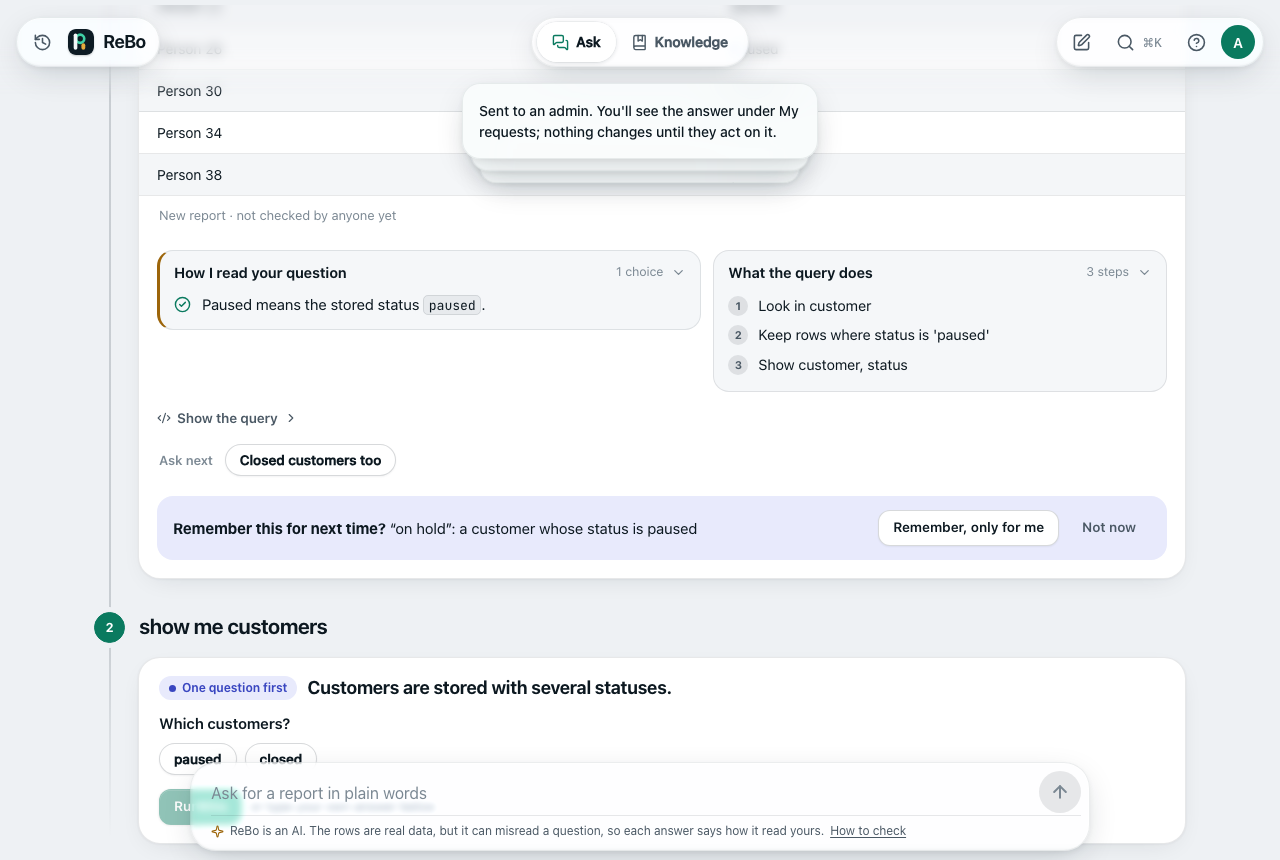
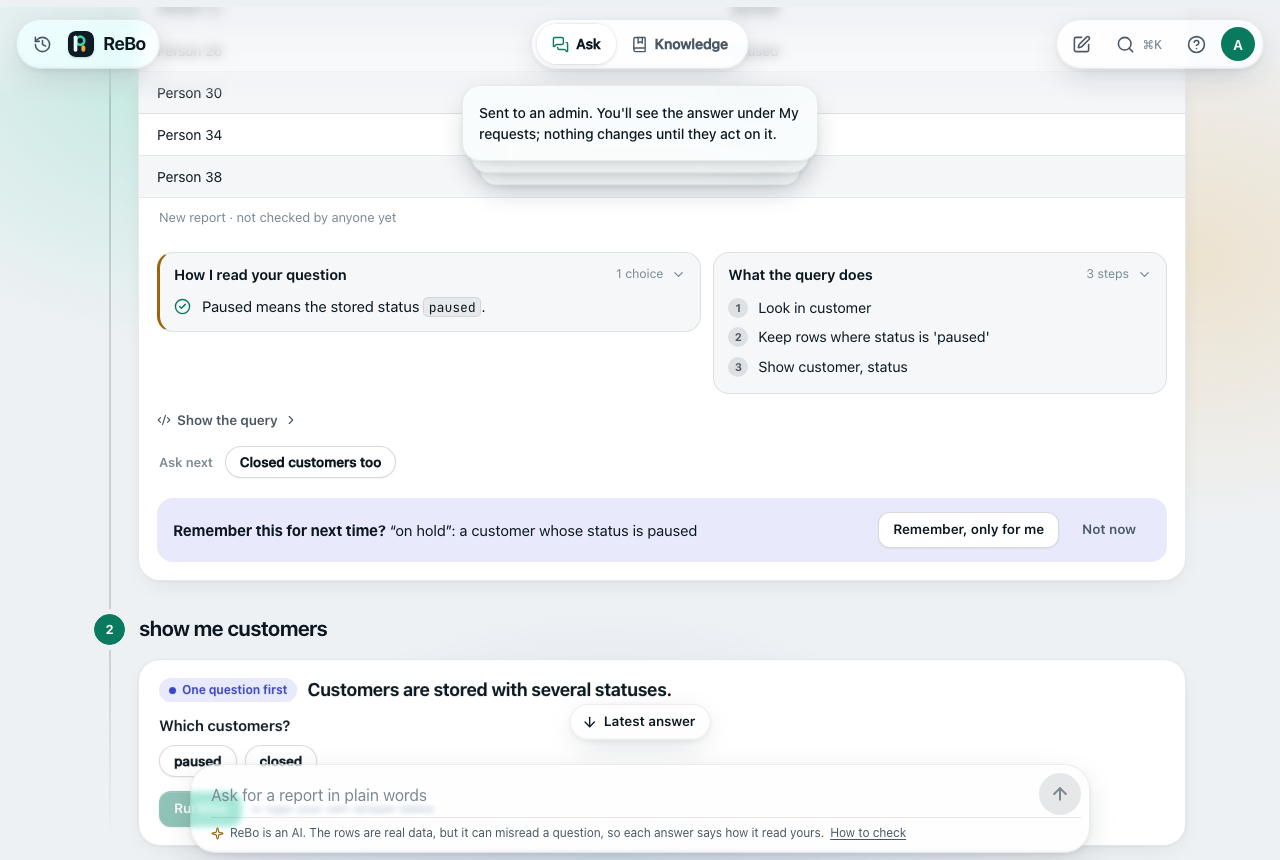
feat(web): Liquid Glass on every floating layer, over an ambient light field
Menus, the Read as popover, dialogs and the command palette are lensed glass (denser tint for
text); Knowledge and Review tabs and the Help contents are sticky glass with content scrolling
under; start-page suggestions are glass capsules; a floating glass 'Latest answer' button.
A fixed light field in the brand colours gives the glass something to bend. Content stays solid.
Playwright: Chromium and WebKit pass.

diff --git a/web/src/styles.css b/web/src/styles.css
@@ -811,3 +811,68 @@ blockquote.reply { margin: 8px 0 0; padding: 8px 12px; border-left: 3px solid va
 .cm-host .cm-scroller { overflow-x: auto; }
 /* without lensing (Safari, Firefox) the frost carries legibility alone: use the denser tint */
 .glass:not(.lensed) { background: var(--glass-strong); }
+
+/* ---------- Liquid Glass, wider (2026-10-22) ----------
+   Glass belongs to the layer that floats: navigation, menus, popovers, dialogs, the palette, sticky bars,
+   floating buttons. Content (answers, tables, cards) stays solid so data reads cleanly. */
+
+/* An ambient light field behind everything, in the brand's three colours, so glass has something to
+   bend. Fixed: content scrolls over it and every floating layer shows a slightly different part. */
+:root { --field-a: rgba(63, 208, 166, 0.26); --field-b: rgba(230, 169, 60, 0.20); --field-c: rgba(64, 120, 200, 0.15);
+  --glass-pop: rgba(252, 253, 254, 0.56); }
+:root[data-theme="dark"] { --field-a: rgba(63, 208, 166, 0.12); --field-b: rgba(230, 169, 60, 0.08); --field-c: rgba(80, 130, 230, 0.12);
+  --glass-pop: rgba(30, 37, 44, 0.62); }
+@media (prefers-color-scheme: dark) { :root:not([data-theme="light"]) { --field-a: rgba(63, 208, 166, 0.12);
+  --field-b: rgba(230, 169, 60, 0.08); --field-c: rgba(80, 130, 230, 0.12); --glass-pop: rgba(30, 37, 44, 0.62); } }
+body { background: transparent; }  /* html carries --bg; the field paints between them */
+body::before { content: ""; position: fixed; inset: -10vmax; z-index: -1; pointer-events: none;
+  background:
+    radial-gradient(40vmax 32vmax at 20% 16%, var(--field-a), transparent 70%),
+    radial-gradient(36vmax 30vmax at 86% 34%, var(--field-b), transparent 70%),
+    radial-gradient(48vmax 34vmax at 48% 92%, var(--field-c), transparent 70%); }
+:root[data-glass="false"] body::before { display: none; }
+
+/* Popovers and menus: lensed glass, denser so text stays crisp over anything. */
+.glasspop { outline: none; }
+.glasspop[data-entering] { animation: pop .22s var(--spring); }
+.menuglass, .tokenpop, .palette, .glassmodal .dialog { background: var(--glass-pop); }
+.glass.menuglass, .glass.tokenpop, .glass.palette, .glassmodal .glass.dialog { border-color: var(--glass-edge); }
+.menuglass { border-radius: 18px; padding: 0; overflow: hidden; }
+.menuglass .menu { background: transparent; backdrop-filter: none; -webkit-backdrop-filter: none; border: 0; box-shadow: none; }
+.tokenpop { box-shadow: var(--glass-shadow); }
+.tokenpop .dist button:hover { background: var(--fill-2); }
+
+/* Dialogs: glass sheet over a light veil, so the page still shows through and bends at the edge. */
+.overlay { background: rgba(8, 14, 20, 0.16); }
+.glassmodal .dialog { padding: 22px 24px; max-height: 76vh; overflow: auto; }
+.glassmodal .dialogbody { outline: none; }
+.glassmodal .textarea, .glassmodal .input, .glassmodal .select { background: color-mix(in srgb, var(--card) 86%, transparent); }
+
+/* Command palette: one glass slab. */
+.palette { width: min(620px, 100%); border-radius: 24px; overflow: hidden; animation: pop .25s var(--spring); }
+.palette [cmdk-root] { width: 100%; background: transparent; border: 0; box-shadow: none; backdrop-filter: none; -webkit-backdrop-filter: none; }
+
+/* Section tabs on Knowledge and Review: a sticky glass capsule; lists scroll under it. */
+.tabbar.glass { position: sticky; top: 76px; z-index: 15; width: fit-content; max-width: 100%; margin: 22px 0 18px;
+  padding: 4px; gap: 2px; border-radius: 999px; border-bottom: 0.5px solid var(--glass-edge); }
+.tabbar.glass button { height: 36px; border-radius: 999px; padding: 0 14px; transition: background .2s, color .2s; }
+.tabbar.glass button.on { background: var(--lens-pill); box-shadow: 0 1px 3px rgba(0,0,0,.1), 0 0 0 0.5px var(--glass-edge); }
+.tabbar.glass button.on::after { display: none; }
+.tabbar.glass button:focus-visible { outline-offset: -2px; border-radius: 999px; }
+@media (max-width: 640px) { .tabbar.glass { top: 64px; } }
+
+/* Start page: the suggestions are glass capsules floating on the light field. */
+.chip.glass { background: var(--glass-tint); border: 0.5px solid var(--glass-edge); color: var(--ink); }
+.chip.glass:hover { background: var(--glass-pop); }
+.chip.glass svg { color: var(--accent); }
+
+/* Back to the newest answer, floating above the composer when you have scrolled up. */
+.jump { position: absolute; left: 50%; bottom: calc(100% + 10px); transform: translateX(-50%); display: inline-flex; align-items: center;
+  gap: 6px; height: 36px; padding: 0 14px 0 11px; border-radius: 999px; cursor: pointer; font: 600 13.5px/1 var(--font); color: var(--ink);
+  animation: pop .25s var(--spring); }
+.jump svg { width: 16px; height: 16px; }
+
+/* Help contents: a sticky glass rail, the current section lit. */
+.toc.glass { align-self: start; padding: 6px; border-radius: 20px; }
+.toc.glass a.on { background: var(--lens-pill); color: var(--ink); box-shadow: 0 1px 3px rgba(0,0,0,.08), 0 0 0 0.5px var(--glass-edge); }
+.toc.glass a.on svg { color: var(--accent); }

diff --git a/web/src/answer.tsx b/web/src/answer.tsx
@@ -15,6 +15,7 @@ import { usePrefs } from "./prefs";
 import { useMe, useToast } from "./shell";
 import { Md } from "./md";
 import { SqlCode } from "./code";
+import { Glass } from "./glass";
 import { chartShape } from "./chart";
 const ResultChart = lazy(() => import("./chart"));
 
@@ -125,7 +126,8 @@ function Report({ r, ask, onTurn, onFix }: { r: any; ask: (q: string) => void; o
           )}
           <MenuTrigger>
             <Button className="btn icon" aria-label="More actions"><MoreHorizontal /></Button>
-            <Popover placement="bottom end" offset={6}>
+            <Popover placement="bottom end" offset={6} className="glasspop">
+              <Glass className="menuglass" strength={24}>
               <Menu className="menu" onAction={(k) => menu(String(k))}>
                 <MenuItem id="rerun"><RotateCcw />Run again on today's data</MenuItem>
                 <MenuItem id="schedule"><Timer />Send me this regularly</MenuItem>
@@ -135,6 +137,7 @@ function Report({ r, ask, onTurn, onFix }: { r: any; ask: (q: string) => void; o
                 <MenuItem id="fix"><Flag />Ask an admin to fix this</MenuItem>
                 {me?.is_admin && r.trace_id ? <MenuItem id="trace"><ExternalLink />Open the trace</MenuItem> : null}
               </Menu>
+              </Glass>
             </Popover>
           </MenuTrigger>
         </div>
@@ -211,7 +214,8 @@ function FilterToken({ f, onPick }: { f: any; onPick: (values: string[], negated
   return (
     <DialogTrigger>
       <Button className="token" aria-label={`${label}: ${said}. Change`}><span className="k">{label}</span><span className="v">{said}</span><ChevronDown /></Button>
-      <Popover placement="bottom start" offset={8} className="tokenpop">
+      <Popover placement="bottom start" offset={8} className="glasspop">
+        <Glass className="tokenpop" strength={28}>
         <Dialog aria-label={`Change ${label}`}>
           {({ close }) => (
             <>
@@ -244,6 +248,7 @@ function FilterToken({ f, onPick }: { f: any; onPick: (values: string[], negated
             </>
           )}
         </Dialog>
+        </Glass>
       </Popover>
     </DialogTrigger>
   );
@@ -388,8 +393,9 @@ export function Sheet({ title, intro, close, children, icon: Icon, wide }: {
 }) {
   return (
     <ModalOverlay className="overlay" isOpen isDismissable onOpenChange={(open) => !open && close()}>
-      <Modal>
-        <Dialog className={`dialog${wide ? " wide" : ""}`}>
+      <Modal className="glassmodal">
+        <Glass className={`dialog${wide ? " wide" : ""}`} strength={30}>
+        <Dialog className="dialogbody">
           <div className="dialoghead">
             {Icon && <span className="dialogicon"><Icon /></span>}
             <div className="grow">
@@ -400,6 +406,7 @@ export function Sheet({ title, intro, close, children, icon: Icon, wide }: {
           </div>
           {children}
         </Dialog>
+        </Glass>
       </Modal>
     </ModalOverlay>
   );

diff --git a/web/src/pages/ask.tsx b/web/src/pages/ask.tsx
@@ -1,5 +1,5 @@
 import { useQuery, useQueryClient } from "@tanstack/react-query";
-import { ArrowRight, ArrowUp, Check, CircleHelp, History, Pin, Sparkle } from "lucide-react";
+import { ArrowDown, ArrowRight, ArrowUp, Check, CircleHelp, History, Pin, Sparkle } from "lucide-react";
 import { useEffect, useRef, useState } from "react";
 import { Link, useNavigate, useParams, useSearchParams } from "react-router";
 import { askStream, call, get, when, type Step } from "../api";
@@ -20,6 +20,7 @@ export default function AskPage() {
   const [text, setText] = useState("");
   const [busy, setBusy] = useState<string | null>(null);
   const [trail, setTrail] = useState<string[]>([]);
+  const [away, setAway] = useState(false);  // scrolled up, away from the newest answer
   const [fixing, setFixing] = useState<string | null>(null);
   const end = useRef<HTMLDivElement>(null);
   const box = useRef<HTMLTextAreaElement>(null);
@@ -32,6 +33,13 @@ export default function AskPage() {
     if (!conversationId) { setTurns([]); setThread(newThread()); }
   }, [conversationId, history.data]);
   useEffect(() => { end.current?.scrollIntoView({ behavior: "smooth", block: "end" }); }, [turns.length, busy]);
+  useEffect(() => {
+    const el = end.current;
+    if (!el) return;
+    const io = new IntersectionObserver(([e]) => setAway(!e.isIntersecting), { rootMargin: "0px 0px -120px 0px" });
+    io.observe(el);
+    return () => io.disconnect();
+  }, [turns.length > 0]);
   useEffect(() => {  // a question typed in the command palette
     const q = search.get("q");
     if (q) { setSearch({}, { replace: true }); ask(q); }
@@ -87,6 +95,11 @@ export default function AskPage() {
         </div>
       )}
       <div className="composer">
+        {away && turns.length > 1 && (
+          <Glass as="button" className="jump" strength={14} onClick={() => end.current?.scrollIntoView({ behavior: "smooth", block: "end" })}>
+            <ArrowDown />Latest answer
+          </Glass>
+        )}
         <Glass className="composerglass" strength={20}>
           {fixing && <div className="hint">Say what should be different, for example “only count the active ones”. ReBo redoes the report.</div>}
           <form onSubmit={(e) => { e.preventDefault(); ask(text); }}>
@@ -140,7 +153,7 @@ function Start({ ask, name }: { ask: (q: string) => void; name: string }) {
       {(starters.data?.length ?? 0) > 0 && (
         <section className="block">
           <h2>Try a known report</h2>
-          <div className="chips">{starters.data!.slice(0, 8).map((s) => <button key={s} className="chip big" onClick={() => ask(s)}><Sparkle />{s}</button>)}</div>
+          <div className="chips">{starters.data!.slice(0, 8).map((s) => <Glass as="button" key={s} className="chip big" strength={12} onClick={() => ask(s)}><Sparkle />{s}</Glass>)}</div>
         </section>
       )}
       <div className="startgrid">

diff --git a/web/src/pages/help.tsx b/web/src/pages/help.tsx
@@ -5,9 +5,10 @@ import {
   ArrowRight, BadgeCheck, BookMarked, CircleAlert, Download, Eye, Hand, Keyboard, Lightbulb, ListChecks, MessageSquareText,
   MousePointerClick, Pin, RotateCcw, ShieldCheck, Sparkles, Timer, Undo2, Users,
 } from "lucide-react";
-import { useEffect } from "react";
+import { useEffect, useState } from "react";
 import { Link, useLocation } from "react-router";
 import { get } from "../api";
+import { Glass } from "../glass";
 import { useMe } from "../shell";
 import { PageHead } from "../ui";
 
@@ -108,9 +109,7 @@ export default function HelpPage() {
     <div className="page help">
       <PageHead title="How to use ReBo" lede="Ask for reports in plain words, check how they were read, and teach ReBo as you go. Two minutes to read; everything links to where it lives." />
       <div className="helpgrid">
-        <nav className="toc" aria-label="On this page">
-          {shown.map((s) => <a key={s.id} href={`#${s.id}`}><s.icon />{s.title}</a>)}
-        </nav>
+        <Toc items={shown} />
         <div className="helpbody">
           {shown.map((s) => (
             <section key={s.id} id={s.id} className="card helpsec">
@@ -121,5 +120,23 @@ export default function HelpPage() {
         </div>
       </div>
     </div>
+  );
+}
+
+// The contents as a floating glass rail; the section you are reading is lit (scroll spy).
+function Toc({ items }: { items: { id: string; title: string; icon: any }[] }) {
+  const [at, setAt] = useState(items[0]?.id);
+  useEffect(() => {
+    const io = new IntersectionObserver((es) => {
+      const top = es.filter((e) => e.isIntersecting).sort((a, b) => a.boundingClientRect.top - b.boundingClientRect.top)[0];
+      if (top) setAt(top.target.id);
+    }, { rootMargin: "-90px 0px -60% 0px" });
+    items.forEach((s) => { const el = document.getElementById(s.id); if (el) io.observe(el); });
+    return () => io.disconnect();
+  }, [items]);
+  return (
+    <Glass as="nav" className="toc" aria-label="On this page" strength={20}>
+      {items.map((s) => <a key={s.id} href={`#${s.id}`} className={at === s.id ? "on" : undefined} aria-current={at === s.id ? "location" : undefined}><s.icon />{s.title}</a>)}
+    </Glass>
   );
 }

diff --git a/web/src/ui.tsx b/web/src/ui.tsx
@@ -1,6 +1,7 @@
 // Shared building blocks for the internal pages, so Knowledge, Review, Admin, Insights, Configuration,
 // You and Help share one structure: a page head (title, one-line purpose, actions, a strip of numbers),
 // section heads, empty states that say what to do next, kind icons, an overflow menu and a timeline.
+import { Glass } from "./glass";
 import { BookMarked, BookOpenText, GitMerge, Lightbulb, MoreHorizontal, ScrollText, type LucideIcon } from "lucide-react";
 import type { ReactNode } from "react";
 import { Button, Menu, MenuItem, MenuTrigger, Popover, Separator } from "react-aria-components";
@@ -67,13 +68,15 @@ export function MoreMenu({ label, actions, onAction }: { label: string; actions:
   return (
     <MenuTrigger>
       <Button className="btn icon ghost" aria-label={label}><MoreHorizontal /></Button>
-      <Popover placement="bottom end" offset={6}>
-        <Menu className="menu" onAction={(k) => onAction(String(k))}>
-          {actions.flatMap((a) => [
-            ...(a.separator ? [<Separator key={`${a.id}-sep`} />] : []),
-            <MenuItem key={a.id} id={a.id} className={a.danger ? "danger" : undefined}>{a.icon && <a.icon />}{a.label}</MenuItem>,
-          ])}
-        </Menu>
+      <Popover placement="bottom end" offset={6} className="glasspop">
+        <Glass className="menuglass" strength={24}>
+          <Menu className="menu" onAction={(k) => onAction(String(k))}>
+            {actions.flatMap((a) => [
+              ...(a.separator ? [<Separator key={`${a.id}-sep`} />] : []),
+              <MenuItem key={a.id} id={a.id} className={a.danger ? "danger" : undefined}>{a.icon && <a.icon />}{a.label}</MenuItem>,
+            ])}
+          </Menu>
+        </Glass>
       </Popover>
     </MenuTrigger>
   );

diff --git a/web/src/pages/knowledge.tsx b/web/src/pages/knowledge.tsx
@@ -12,6 +12,7 @@ import { useLocation, useNavigate, useSearchParams } from "react-router";
 import { call, get, plural, when } from "../api";
 import { Sheet } from "../answer";
 import { CodeEditor, SqlCode } from "../code";
+import { Glass } from "../glass";
 import { Md } from "../md";
 import { useMe, useToast } from "../shell";
 import { Empty, KINDS, KindIcon, MoreMenu, PageHead, Timeline, type MenuAction } from "../ui";
@@ -91,13 +92,13 @@ export default function KnowledgePage() {
 
       <Lookup />
 
-      <nav className="tabbar" aria-label="Knowledge sections">
+      <Glass as="nav" className="tabbar" aria-label="Knowledge sections" strength={18}>
         {TABS.map((t) => (
           <button key={t.id} id={t.id} className={tab === t.id ? "on" : ""} aria-current={tab === t.id ? "page" : undefined} onClick={() => setTab(t.id)}>
             {t.label}{counts[t.id] ? <span className="count">{counts[t.id]}</span> : null}
           </button>
         ))}
-      </nav>
+      </Glass>
 
       {tab === "saved" && (
         <>

diff --git a/web/src/pages/review.tsx b/web/src/pages/review.tsx
@@ -40,10 +40,10 @@ export default function ReviewPage() {
           { n: reqs.length, label: "Open requests", tone: reqs.length ? "warn" : undefined },
         ]} />
 
-      <nav className="tabbar" aria-label="Review sections">
+      <Glass as="nav" className="tabbar" aria-label="Review sections" strength={18}>
         <button className={tab === "queue" ? "on" : ""} onClick={() => navigate({ hash: "" }, { replace: true })}>Waiting to be shared{items.length ? <span className="count">{items.length}</span> : null}</button>
         <button className={tab === "requests" ? "on" : ""} onClick={() => navigate({ hash: "requests" }, { replace: true })}>Requests{reqs.length ? <span className="count">{reqs.length}</span> : null}</button>
-      </nav>
+      </Glass>
 
       {tab === "queue" && (items.length === 0 ? (
         <div className="panel"><Empty icon={Inbox} title="Nothing is waiting">Items arrive when an owner asks to share them, or when three people independently confirm the same report.</Empty></div>

diff --git a/web/src/shell.tsx b/web/src/shell.tsx
@@ -177,6 +177,7 @@ function Palette({ me, close, openHistory }: { me: Me; close: () => void; openHi
   const places = [...visible(me), { to: "/me", label: "You and your settings", icon: UserRound }, { to: "/help", label: "Help", icon: CircleHelp }];
   return (
     <div className="overlay" onMouseDown={(e) => e.target === e.currentTarget && close()}>
+      <Glass className="palette" strength={30}>
       <Command label="Command palette" onKeyDown={(e) => e.key === "Escape" && close()}>
         <Command.Input autoFocus value={q} onValueChange={setQ} placeholder="Ask a question or jump to…" />
         <Command.List>
@@ -204,6 +205,7 @@ function Palette({ me, close, openHistory }: { me: Me; close: () => void; openHi
           )}
         </Command.List>
       </Command>
+      </Glass>
     </div>
   );
 }

diff --git a/docs/25-brand-and-design.md b/docs/25-brand-and-design.md
@@ -90,3 +90,25 @@ One kit (`web/src/ui.tsx`) for Knowledge, Review, Admin, Insights, Configuration
   **Insights** has KPI cards with an icon and tone, and health checks sorted problems-first with a
   status chip.
 - **⌘K** also runs actions: new question, teach something, change appearance, open history.
+
+## Liquid Glass, wider (2026-10-22)
+
+Glass is the floating layer, never the content. Now lensed glass (per-element displacement map,
+`web/src/glass.tsx`):
+
+| Surface | Before | Now |
+|---|---|---|
+| Island bar, composer, history sheet, review bulk bar | glass | glass |
+| Menus (⋯), Read as popover | blurred card | lensed glass, denser tint `--glass-pop` so text stays crisp |
+| Dialogs (Sheet) | solid card | glass sheet over a light veil: the page bends at its edge |
+| Command palette | blurred card | one glass slab |
+| Knowledge and Review section tabs | underline bar | sticky glass capsule; lists scroll under it |
+| Help contents | plain list | sticky glass rail, current section lit (scroll spy) |
+| Start page suggestions | chips | glass capsules |
+| "Latest answer" | – | floating glass button above the composer when you scroll up |
+
+An **ambient light field** (three soft radial fields in the logo's teal, amber and a blue, fixed
+behind the page) gives every glass surface something to refract; on a flat grey page glass reads as
+white plastic. Answers, tables and cards stay solid. "Reduce transparency", the You-page glass switch
+and forced colours still turn everything solid (and hide the field). Chromium lenses; WebKit and
+Firefox get blur only. Playwright passes on Chromium and WebKit.
